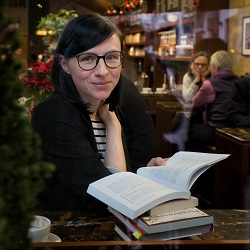
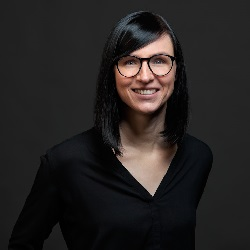
update bianca profile

diff --git a/html/female-tech-mentors.html b/html/female-tech-mentors.html
@@ -2460,9 +2460,9 @@ height="0" width="0" style="display:none;visibility:hidden"></iframe></noscript>
           <div class="mentor-tile" id="bianca" data-order="1" data-category="agile">
             <div class="mentor-pic"><img src="../assets/bianca-mentor.jpg" class="mentor-page-img" alt="picture of mentor"></div>
             <div class="mentor-name">Bianca</div>
-            <div class="mentor-prof">Agile Coach &amp; Scrum Master,<br> solarisBank AG<br><span class="mentor-home">Berlin, Deutschland</span></div>
+            <div class="mentor-prof">Freelancerin<br><span class="mentor-home">Berlin, Deutschland</span></div>
             <div class="mentor-uni">PhD., Carl von Ossietzky University Oldenburg</div>
-            <div class="mentor-exp">Berufserfahrung: 2-5 Jahre</div>
+            <div class="mentor-exp">Berufserfahrung: > 5 Jahre</div>
             <div class="mentor-lang">Deutsch, Englisch</div>
             <div class="mentor-topics"><strong>Lass uns reden über:</strong><br>Agile, Scrum &amp; Kanban, Mastering individual challenges, Feedback, Teamwork &amp; Workshops</div><br>
 

diff --git a/html/female-tech-mentors-en.html b/html/female-tech-mentors-en.html
@@ -2446,9 +2446,9 @@ height="0" width="0" style="display:none;visibility:hidden"></iframe></noscript>
           <div class="mentor-tile" id="bianca" data-order="1" data-category="agile">
             <div class="mentor-pic"><img src="../assets/bianca-mentor.jpg" class="mentor-page-img" alt="picture of mentor"></div>
             <div class="mentor-name">Bianca</div>
-            <div class="mentor-prof">Agile Coach &amp; Scrum Master,<br> solarisBank AG<br><span class="mentor-home">Berlin, Germany</span></div>
+            <div class="mentor-prof">Freelancer<br><span class="mentor-home">Berlin, Germany</span></div>
             <div class="mentor-uni">PhD., Carl von Ossietzky University Oldenburg</div>
-            <div class="mentor-exp">Experience: 2-5 years</div>
+            <div class="mentor-exp">Experience: > 5 years</div>
             <div class="mentor-lang">German, English</div>
             <div class="mentor-topics"><strong>Let's talk about:</strong><br>Agile, Scrum &amp; Kanban, Mastering individual challenges, Feedback, Teamwork &amp; Workshops</div><br>
 
